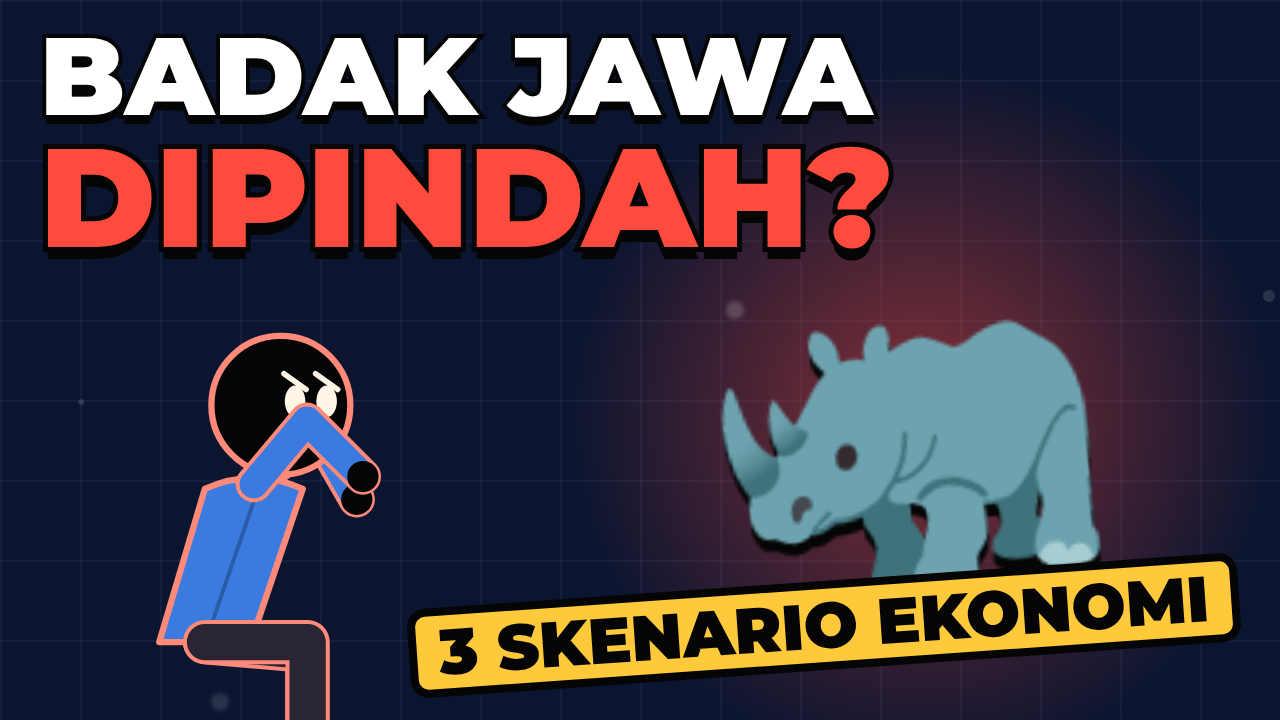
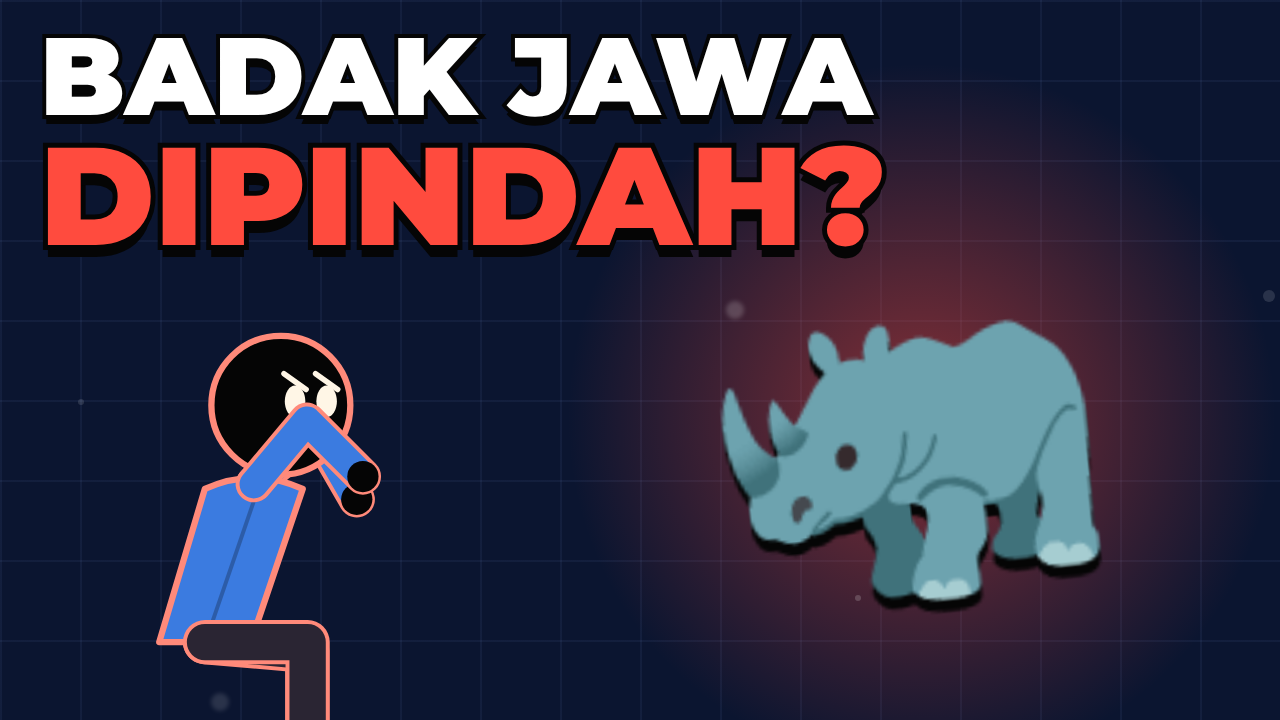
Thumbnail maksimal 3 kata untuk ihsg-crash dan badak-jawa; ukuran teks thumbnail adaptif
Claude-Session: https://claude.ai/code/session_019wh8FBkZywDsjYxjdhMVwN

diff --git a/video-asing-kabur/src/videos/Thumb.tsx b/video-asing-kabur/src/videos/Thumb.tsx
@@ -27,7 +27,7 @@ export const Thumb: React.FC<{data: ThumbData; variant: 1 | 2 | 3}> = ({data, va
           </div>
           <div style={{position: 'absolute', left: 700, top: 270, fontSize: 330, lineHeight: 1, transform: 'rotate(-6deg)', filter: 'drop-shadow(0 12px 0 #050505)'}}>{data.v1.emoji}</div>
           <T text={data.v1.top} size={110} style={{position: 'absolute', left: 40, top: 24}} />
-          <T text={data.v1.main} size={140} color={C.red} style={{position: 'absolute', left: 40, top: 130}} />
+          <T text={data.v1.main} size={Math.min(190, 1250 / Math.max(...data.v1.main.split('\n').map((x) => x.length)))} color={C.red} style={{position: 'absolute', left: 40, top: data.v1.top ? 130 : 40}} />
           {data.v1.badge && (
             <div style={{position: 'absolute', right: 40, bottom: 50, background: C.yellow, border: `8px solid ${C.ink}`, borderRadius: 18, padding: '6px 22px', transform: 'rotate(-4deg)'}}>
               <T text={data.v1.badge} size={64} color={C.ink} style={{WebkitTextStroke: 0, textShadow: 'none'}} />
@@ -43,7 +43,7 @@ export const Thumb: React.FC<{data: ThumbData; variant: 1 | 2 | 3}> = ({data, va
           </div>
           <div style={{position: 'absolute', left: 680, top: 270, fontSize: 300, lineHeight: 1, filter: 'drop-shadow(0 0 40px rgba(255,200,80,0.7))'}}>{data.v2.emoji}</div>
           <T text={data.v2.kicker} size={84} color={C.yellow} style={{position: 'absolute', right: 40, top: 30, textAlign: 'right'}} />
-          <T text={data.v2.main} size={104} style={{position: 'absolute', right: 40, top: 120, textAlign: 'right'}} />
+          <T text={data.v2.main} size={data.v2.kicker || data.v2.bottom ? 104 : 150} style={{position: 'absolute', right: 40, top: data.v2.kicker ? 120 : 50, textAlign: 'right'}} />
           <T text={data.v2.bottom} size={90} color={C.red} style={{position: 'absolute', right: 40, bottom: 40, textAlign: 'right'}} />
         </>
       )}
@@ -58,8 +58,8 @@ export const Thumb: React.FC<{data: ThumbData; variant: 1 | 2 | 3}> = ({data, va
           </div>
           {data.v3.leftEmoji && <div style={{position: 'absolute', left: 420, top: 440, fontSize: 120}}>{data.v3.leftEmoji}</div>}
           {data.v3.rightEmoji && <div style={{position: 'absolute', left: 1060, top: 440, fontSize: 120}}>{data.v3.rightEmoji}</div>}
-          <T text={data.v3.left} size={Math.min(96, 740 / data.v3.left.length)} color={C.red} style={{position: 'absolute', left: 40, top: 140, width: 560, textAlign: 'center'}} />
-          <T text={data.v3.right} size={Math.min(96, 740 / data.v3.right.length)} color={C.green} style={{position: 'absolute', left: 680, top: 140, width: 560, textAlign: 'center'}} />
+          <T text={data.v3.left} size={Math.min(110, 740 / data.v3.left.length)} color={C.red} style={{position: 'absolute', left: 40, top: data.v3.top ? 140 : 70, width: 560, textAlign: 'center'}} />
+          <T text={data.v3.right} size={Math.min(110, 740 / data.v3.right.length)} color={C.green} style={{position: 'absolute', left: 680, top: data.v3.top ? 140 : 70, width: 560, textAlign: 'center'}} />
           <T text={data.v3.top} size={78} style={{position: 'absolute', left: 0, right: 0, top: 24, textAlign: 'center'}} />
         </AbsoluteFill>
       )}
